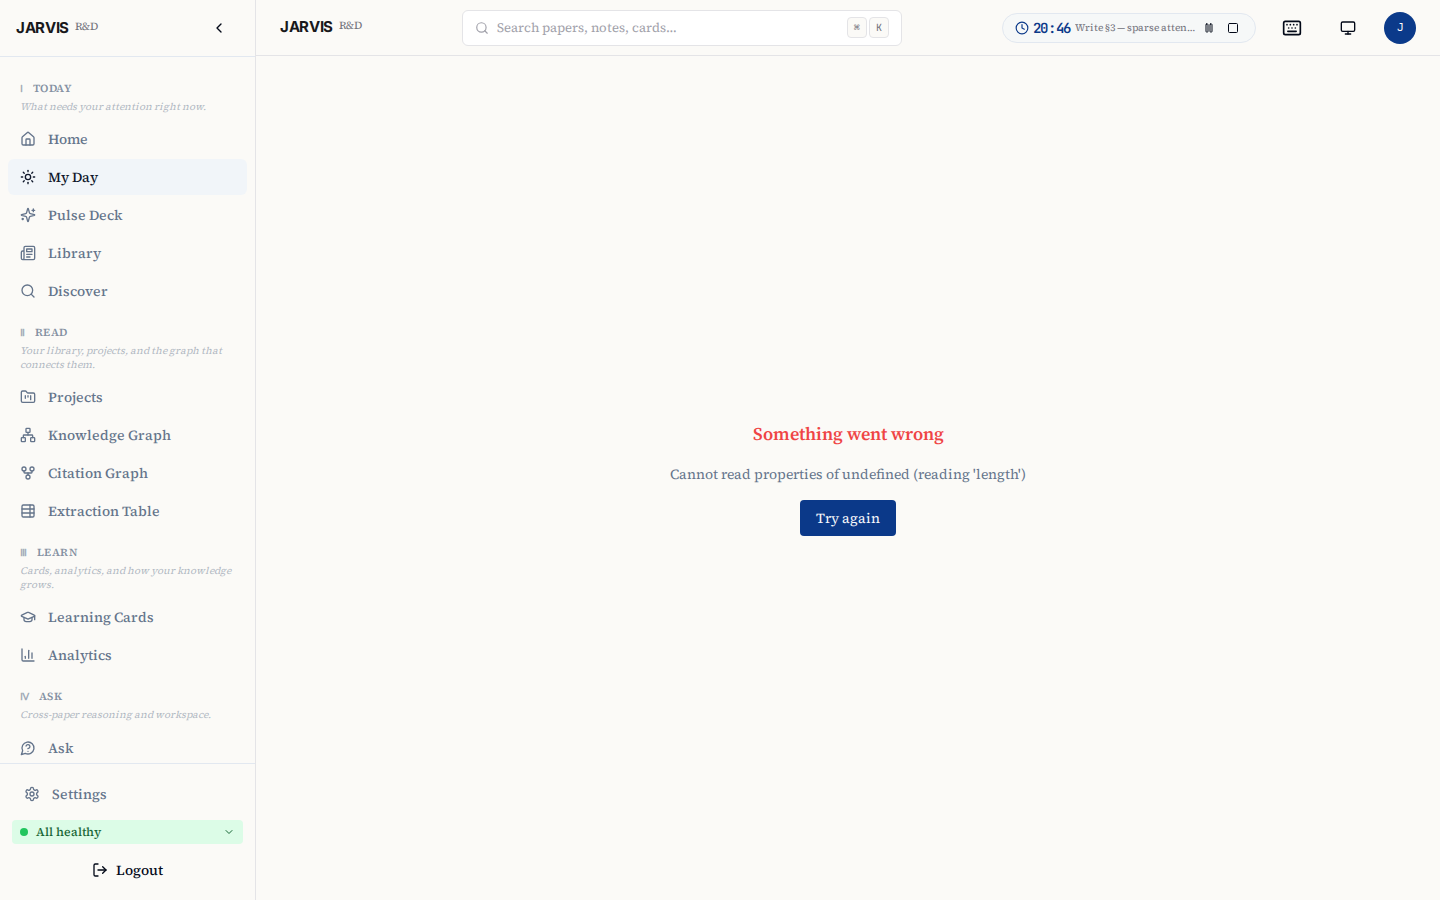
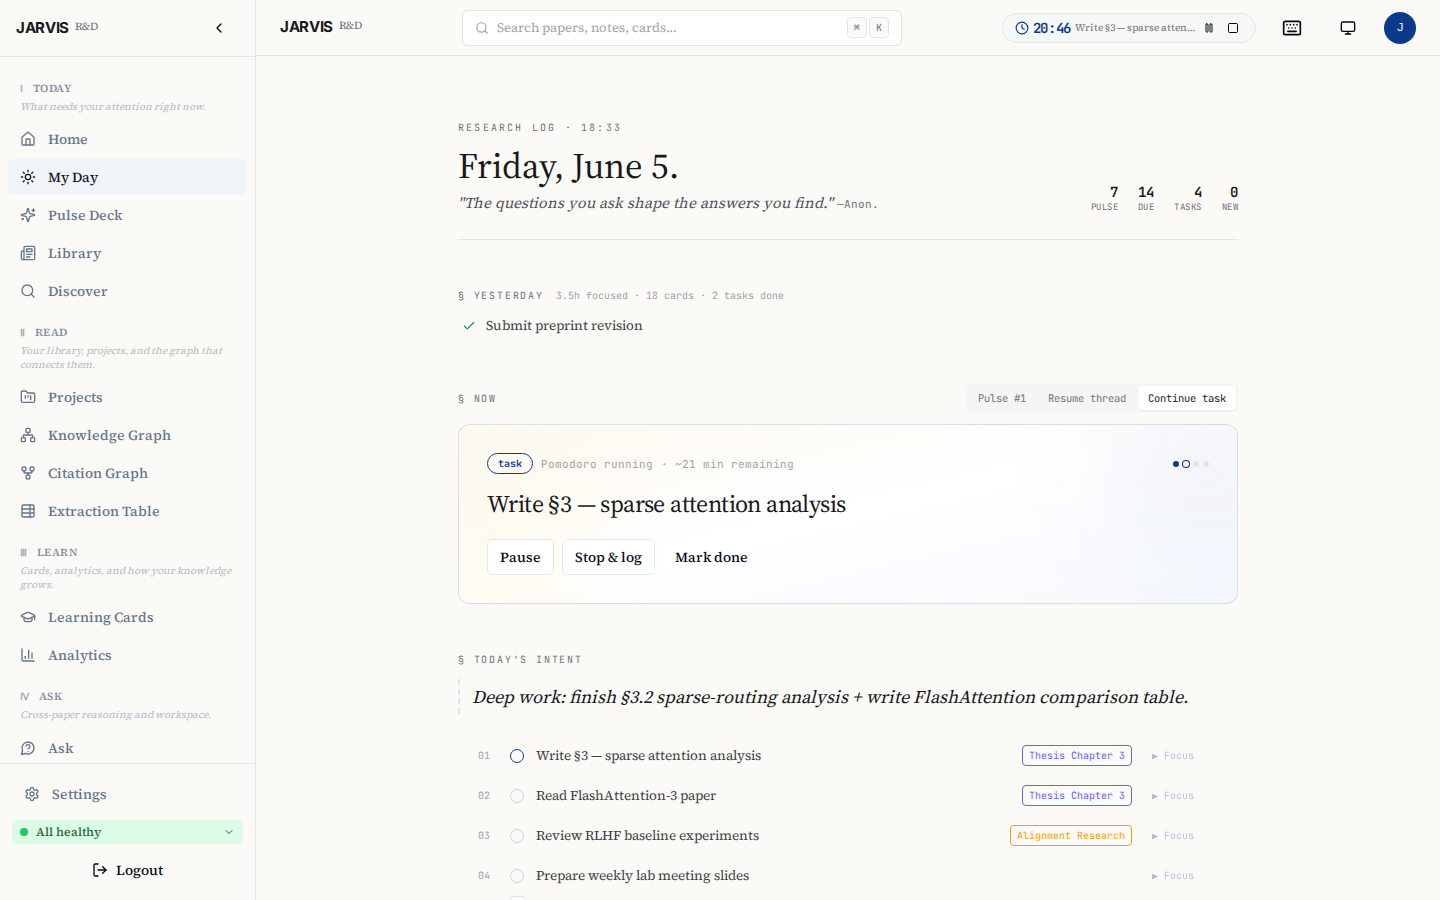
docs(readme): fix broken screenshots and update project contact email (#63)

diff --git a/frontend/e2e/readme-screenshots.spec.ts b/frontend/e2e/readme-screenshots.spec.ts
@@ -1,13 +1,14 @@
 /**
  * README screenshot generator — fully mocked, no live backend required.
  *
- * Produces 6 hero screenshots for docs/screenshots/:
+ * Produces 7 hero screenshots for docs/screenshots/:
  *   01-home.png        → HomePage         /
  *   02-my-day.png      → MyDayPage        /my-day
  *   03-pulse.png       → PulseDeckPage    /pulse
  *   04-library.png     → ResearchFeedPage /feed?surface=library (Library view)
  *   05-discover.png    → ResearchFeedPage /feed (Search/Discover tab)
  *   06-knowledge-graph.png → KnowledgeGraphPage /knowledge
+ *   07-ask.png         → AskPage          /ask (cross-paper RAG Q&A)
  *
  * Viewport: 1440×900 (above-the-fold, not fullPage).
  * All API calls intercepted via page.route().
@@ -291,6 +292,57 @@ const MY_DAY_RESPONSE = {
   ],
 };
 
+// WeeklyDigestResponse — per-topic theme clusters with verified/unverified badges.
+// Shape grounded against WeeklyDigestResponse in src/types/index.ts:1222.
+const WEEKLY_DIGEST = {
+  total_papers: 11,
+  period_start: '2026-05-29',
+  period_end: '2026-06-04',
+  topics: [
+    {
+      name: 'Efficient Inference',
+      paper_count: 5,
+      summary:
+        'Sparse routing and asynchronous attention dominate this week — the shared thread is reducing memory bandwidth without quality loss.',
+      themes: [
+        { theme: 'Top-k sparse MoE gating yields 2.4× long-context throughput at <1% quality loss.', supporting_papers: [101], notes: null, verified: true, verification_reason: null },
+        { theme: 'FlashAttention-3 exploits H100 asynchrony for a 1.5–2.0× speedup over FA2.', supporting_papers: [104], notes: null, verified: true, verification_reason: null },
+        { theme: 'Inference-aware cost modelling revisits Chinchilla-optimal scaling.', supporting_papers: [106], notes: null, verified: false, verification_reason: 'Claim paraphrases two papers; exact supporting quote not located in corpus.' },
+      ],
+      top_papers: [
+        { paper_id: 101, title: 'Sparse Mixture-of-Experts for Efficient Long-Context Inference', url: 'https://arxiv.org/abs/2501.00101', confidence: 'HIGH', relevance_score: 0.94 },
+        { paper_id: 104, title: 'FlashAttention-3: Fast and Accurate Attention with Asynchrony', url: 'https://arxiv.org/abs/2407.08608', confidence: 'HIGH', relevance_score: 0.85 },
+      ],
+    },
+    {
+      name: 'RLHF & Alignment',
+      paper_count: 3,
+      summary:
+        'Reward-model overoptimization remains the open question — empirical scaling curves are now available to bound it.',
+      themes: [
+        { theme: 'Proxy-reward overoptimization follows a predictable scaling law in RLHF.', supporting_papers: [103], notes: null, verified: true, verification_reason: null },
+        { theme: 'Reward collapse correlates with out-of-distribution prompts more than raw overfit.', supporting_papers: [103], notes: null, verified: true, verification_reason: null },
+      ],
+      top_papers: [
+        { paper_id: 103, title: 'Scaling Laws for Reward Model Overoptimization in RLHF', url: 'https://arxiv.org/abs/2210.10760', confidence: 'HIGH', relevance_score: 0.88 },
+      ],
+    },
+  ],
+};
+
+// MyDayBundle — single round-trip that primes per-section caches (MyDayPage.tsx).
+// Shape grounded against MyDayBundle in src/types/index.ts:1295.
+const MY_DAY_BUNDLE = {
+  tasks: MY_DAY_RESPONSE.tasks,
+  intent: { intent: 'Deep work: finish §3.2 sparse-routing analysis + write FlashAttention comparison table.', updated_at: '2026-06-04T07:30:00Z' },
+  threads: [
+    { id: 1, title: 'Sparse attention vs dense: when does routing overhead pay off?', anchor: 'Re-read §4 of the MoE paper before benchmarking.', progress: 0.45, last_at: '2026-06-03T09:15:00Z', status: 'open', created_at: '2026-06-02T14:00:00Z' },
+    { id: 2, title: 'RLHF reward collapse — relationship to overfit or OOD?', anchor: null, progress: 0.2, last_at: '2026-06-03T16:00:00Z', status: 'open', created_at: '2026-06-01T10:00:00Z' },
+  ],
+  yesterday: { date: '2026-06-03', focused_hours: 3.5, cards_reviewed: 18, tasks_done: 2, completed: [{ id: 10, title: 'Submit preprint revision', status: 'done' }], deferred: [] },
+  journal: null,
+};
+
 const RETENTION_STATS = {
   total_cards: 284,
   due_now: 14,
@@ -312,18 +364,127 @@ const KNOWLEDGE_GRAPH = {
     { id: 8, name: 'RAG', canonical_name: 'Retrieval-Augmented Generation', entity_type: 'method', description: 'Hybrid retrieval + generation for knowledge-intensive tasks', paper_count: 22, created_at: '2026-01-01T00:00:00Z', metadata: {} },
     { id: 9, name: 'Chain-of-Thought', canonical_name: 'Chain-of-Thought Prompting', entity_type: 'concept', description: 'Prompting technique eliciting step-by-step reasoning', paper_count: 19, created_at: '2026-01-01T00:00:00Z', metadata: {} },
   ],
+  // Hub-and-spoke topology: "Transformer" (id 1) is the sole high-degree hub,
+  // every other entity a degree-1/2 leaf. The "Concentric" layout keys on node
+  // degree, so this seats Transformer alone at the centre and fans the eight
+  // leaves into one evenly-spaced outer ring — a clean, legible README graph
+  // (a flat degree distribution instead makes concentric pile everything in the
+  // middle and the labels collide).
   relationships: [
     { id: 1, source_entity_id: 1, target_entity_id: 2, relationship_type: 'basis_for', paper_id: 201, evidence_quote: null, confidence: 0.95, created_at: '2026-01-01T00:00:00Z' },
     { id: 2, source_entity_id: 1, target_entity_id: 3, relationship_type: 'basis_for', paper_id: 201, evidence_quote: null, confidence: 0.95, created_at: '2026-01-01T00:00:00Z' },
-    { id: 3, source_entity_id: 6, target_entity_id: 1, relationship_type: 'component_of', paper_id: 201, evidence_quote: null, confidence: 0.90, created_at: '2026-01-01T00:00:00Z' },
-    { id: 4, source_entity_id: 5, target_entity_id: 3, relationship_type: 'used_to_train', paper_id: 103, evidence_quote: null, confidence: 0.88, created_at: '2026-01-01T00:00:00Z' },
-    { id: 5, source_entity_id: 7, target_entity_id: 3, relationship_type: 'applied_to', paper_id: 202, evidence_quote: null, confidence: 0.85, created_at: '2026-01-01T00:00:00Z' },
-    { id: 6, source_entity_id: 8, target_entity_id: 6, relationship_type: 'uses', paper_id: 202, evidence_quote: null, confidence: 0.82, created_at: '2026-01-01T00:00:00Z' },
-    { id: 7, source_entity_id: 9, target_entity_id: 3, relationship_type: 'improves', paper_id: 204, evidence_quote: null, confidence: 0.79, created_at: '2026-01-01T00:00:00Z' },
-    { id: 8, source_entity_id: 2, target_entity_id: 4, relationship_type: 'evaluated_on', paper_id: 201, evidence_quote: null, confidence: 0.78, created_at: '2026-01-01T00:00:00Z' },
+    { id: 3, source_entity_id: 1, target_entity_id: 6, relationship_type: 'uses', paper_id: 201, evidence_quote: null, confidence: 0.90, created_at: '2026-01-01T00:00:00Z' },
+    { id: 4, source_entity_id: 1, target_entity_id: 5, relationship_type: 'aligned_by', paper_id: 103, evidence_quote: null, confidence: 0.88, created_at: '2026-01-01T00:00:00Z' },
+    { id: 5, source_entity_id: 1, target_entity_id: 7, relationship_type: 'fine_tuned_by', paper_id: 202, evidence_quote: null, confidence: 0.85, created_at: '2026-01-01T00:00:00Z' },
+    { id: 6, source_entity_id: 1, target_entity_id: 8, relationship_type: 'extended_by', paper_id: 202, evidence_quote: null, confidence: 0.82, created_at: '2026-01-01T00:00:00Z' },
+    { id: 7, source_entity_id: 1, target_entity_id: 9, relationship_type: 'prompted_by', paper_id: 204, evidence_quote: null, confidence: 0.79, created_at: '2026-01-01T00:00:00Z' },
+    { id: 8, source_entity_id: 1, target_entity_id: 4, relationship_type: 'evaluated_on', paper_id: 201, evidence_quote: null, confidence: 0.78, created_at: '2026-01-01T00:00:00Z' },
   ],
   entity_type_counts: { method: 5, concept: 3, dataset: 1 },
 };
+
+// ─────────────────────────────────────────────────────────────────────────────
+// Ask (cross-paper RAG) — completed Q&A fixture
+//
+// The Ask answer is rendered by streaming a complete, well-formed SSE response
+// from POST /api/ask/stream. The shape is grounded against StreamEvent in
+// src/lib/sse.ts:27 (token | sources | confidence | done). The answer carries
+// inline [n] citations, a HIGH-confidence "Verified" badge, per-sentence
+// verification (one sentence intentionally unverified → yellow <mark>), and a
+// sources list with page numbers — the anti-hallucination design on display.
+// ─────────────────────────────────────────────────────────────────────────────
+
+const ASK_QUESTION =
+  'How do sparse mixture-of-experts methods compare to dense transformers for long-context inference, and what are the throughput/quality trade-offs?';
+
+// The answer text. Inline [n] markers reference the sources list below.
+const ASK_ANSWER = [
+  'For long-context inference, sparse mixture-of-experts (MoE) models route each token to only the top-k experts, so the activated parameter count — and therefore the memory bandwidth per token — stays far below a dense transformer of equivalent total size [1].',
+  ' Empirically this yields a 2.4× throughput improvement at 128k-token contexts with under 1% quality degradation on standard LLM benchmarks [1].',
+  ' Dense transformers, by contrast, activate every parameter for every token, so their long-context cost is dominated by the quadratic attention term and the full feed-forward pass [3].',
+  ' Kernel-level work narrows part of that gap: FlashAttention-3 exploits H100 asynchrony to deliver a 1.5–2.0× attention speedup over FlashAttention-2, which benefits dense and sparse models alike [2].',
+  ' The principal trade-off is that MoE routing adds load-balancing overhead and can underperform dense models on tasks where expert specialization fragments rare-token coverage.',
+  ' Inference-aware cost modelling suggests the sparse advantage widens as deployment scale grows, since the per-token compute savings compound across long sequences [3].',
+].join('');
+
+// Per-sentence verification. Five of six sentences verified against retrieved
+// source chunks; the routing-overhead caveat is left unverified to surface the
+// per-sentence highlight (yellow <mark>) without tripping the amber low-confidence
+// banner (which only shows when confidence !== 'HIGH').
+const ASK_PER_SENTENCE = [
+  { text: 'For long-context inference, sparse mixture-of-experts (MoE) models route each token to only the top-k experts, so the activated parameter count — and therefore the memory bandwidth per token — stays far below a dense transformer of equivalent total size [1].', verified: true },
+  { text: 'Empirically this yields a 2.4× throughput improvement at 128k-token contexts with under 1% quality degradation on standard LLM benchmarks [1].', verified: true },
+  { text: 'Dense transformers, by contrast, activate every parameter for every token, so their long-context cost is dominated by the quadratic attention term and the full feed-forward pass [3].', verified: true },
+  { text: 'Kernel-level work narrows part of that gap: FlashAttention-3 exploits H100 asynchrony to deliver a 1.5–2.0× attention speedup over FlashAttention-2, which benefits dense and sparse models alike [2].', verified: true },
+  { text: 'The principal trade-off is that MoE routing adds load-balancing overhead and can underperform dense models on tasks where expert specialization fragments rare-token coverage.', verified: false },
+  { text: 'Inference-aware cost modelling suggests the sparse advantage widens as deployment scale grows, since the per-token compute savings compound across long sequences [3].', verified: true },
+];
+
+const ASK_SOURCES = [
+  {
+    chunk_id: 9101,
+    paper_id: 101,
+    paper_title: '[1] Sparse Mixture-of-Experts for Efficient Long-Context Inference (Liu et al., 2026)',
+    text: 'Routing only the top-k experts per token reduces activated memory bandwidth and yields a 2.4× throughput improvement at 128k context length with <1% quality degradation across standard LLM benchmarks.',
+    page_number: 4,
+    score: 0.912,
+  },
+  {
+    chunk_id: 9104,
+    paper_id: 104,
+    paper_title: '[2] FlashAttention-3: Fast and Accurate Attention with Asynchrony (Shah et al., 2024)',
+    text: 'By overlapping computation and memory movement on H100 GPUs, FlashAttention-3 attains a 1.5–2.0× speedup over FlashAttention-2 while preserving numerical accuracy.',
+    page_number: 7,
+    score: 0.864,
+  },
+  {
+    chunk_id: 9106,
+    paper_id: 106,
+    paper_title: '[3] Beyond Chinchilla-Optimal: Accounting for Inference in LLM Cost Modelling (Sardana & Frankle, 2024)',
+    text: 'When inference cost is folded into the scaling objective, compute-per-token savings dominate at deployment scale, favouring architectures that activate fewer parameters per token.',
+    page_number: 3,
+    score: 0.831,
+  },
+];
+
+/**
+ * Build a complete SSE body: token frames (so the answer renders progressively),
+ * then a single sources frame, a confidence frame, and a terminal done frame.
+ * Frames follow the `data: {json}\n` shape parsed by readSSEFrames (sse.ts:85).
+ */
+function buildAskStreamBody(): string {
+  const frames: string[] = [];
+  // Stream the answer as fixed-width character chunks so it arrives
+  // progressively yet reassembles to the EXACT text (sentence-boundary
+  // splitting would fragment the decimal points in "2.4×"/"1.5–2.0×" and drop
+  // characters, corrupting both the answer and the per-sentence highlight match).
+  const CHUNK = 64;
+  for (let i = 0; i < ASK_ANSWER.length; i += CHUNK) {
+    frames.push(`data: ${JSON.stringify({ type: 'token', content: ASK_ANSWER.slice(i, i + CHUNK) })}\n`);
+  }
+  frames.push(`data: ${JSON.stringify({ type: 'sources', sources: ASK_SOURCES })}\n`);
+  frames.push(
+    `data: ${JSON.stringify({ type: 'confidence', confidence: 'HIGH', verified_fraction: 5 / 6, per_sentence: ASK_PER_SENTENCE })}\n`,
+  );
+  frames.push(`data: ${JSON.stringify({ type: 'done', model_used: null })}\n`);
+  frames.push('data: [DONE]\n');
+  return frames.join('');
+}
+
+async function installAskRoutes(page: Page): Promise<void> {
+  await installCommonRoutes(page);
+
+  // POST /api/ask/stream → complete mocked SSE response.
+  await page.route('**/api/ask/stream**', async (route: Route) => {
+    await route.fulfill({ status: 200, contentType: 'text/event-stream', body: buildAskStreamBody() });
+  });
+
+  // OnboardingTour eligibility check — non-empty so the tour stays hidden.
+  await page.route('**/api/papers/feed**', async (route: Route) => {
+    if (route.request().url().includes('/counts')) { await route.continue(); return; }
+    await route.fulfill({ status: 200, contentType: 'application/json', body: JSON.stringify({ papers: INBOX_PAPERS.slice(0, 1), total: 1 }) });
+  });
+}
 
 // ─────────────────────────────────────────────────────────────────────────────
 // Route-install helpers
@@ -335,8 +496,16 @@ async function installCommonRoutes(page: Page): Promise<void> {
     await route.fulfill({ status: 200, contentType: 'application/json', body: JSON.stringify(SETUP_STATUS) });
   });
 
-  // Jobs SSE + listing — return empty so no job banners appear
-  await page.route('**/api/jobs**', async (route: Route) => {
+  // Jobs SSE + listing — return empty so no job banners appear.
+  //
+  // NOTE: this is a RegExp, not a `**/api/jobs**` glob, on purpose. Under
+  // `vite dev` the source module `/src/lib/api/jobs.ts` is served verbatim, and
+  // a `**/api/jobs**` glob ALSO matches that module path — intercepting the JS
+  // module and returning JSON, which blanks the whole app ("Failed to load
+  // module script: …MIME type application/json"). Anchoring to a real API path
+  // (`/api/jobs` followed by end, `?`, or `/`) avoids the dev-server collision
+  // while still matching `/api/jobs`, `/api/jobs?…`, and `/api/jobs/stream`.
+  await page.route(/\/api\/jobs(\?|\/|$)/, async (route: Route) => {
     const url = route.request().url();
     if (url.includes('/stream') || url.includes('stream')) {
       // SSE streams: return a minimal well-formed event-stream with no events
@@ -443,10 +612,7 @@ async function installMyDayRoutes(page: Page): Promise<void> {
   });
 
   await page.route('**/api/my-day/threads**', async (route: Route) => {
-    await route.fulfill({ status: 200, contentType: 'application/json', body: JSON.stringify([
-      { id: 1, title: 'Sparse attention vs dense: when does routing overhead pay off?', status: 'open', created_at: '2026-06-02T14:00:00Z', updated_at: '2026-06-03T09:15:00Z', paper_count: 4 },
-      { id: 2, title: 'RLHF reward collapse — relationship to overfit or OOD?', status: 'open', created_at: '2026-06-01T10:00:00Z', updated_at: '2026-06-03T16:00:00Z', paper_count: 3 },
-    ]) });
+    await route.fulfill({ status: 200, contentType: 'application/json', body: JSON.stringify(MY_DAY_BUNDLE.threads) });
   });
 
   await page.route('**/api/my-day/journal**', async (route: Route) => {
@@ -457,8 +623,19 @@ async function installMyDayRoutes(page: Page): Promise<void> {
     await route.fulfill({ status: 200, contentType: 'application/json', body: JSON.stringify(MY_DAY_RESPONSE.tasks) });
   });
 
+  // GET /api/digest/weekly → WeeklyDigestResponse. The response MUST carry a
+  // `topics` array: WeeklyDigestSection reads `data.topics.length`, so a
+  // shapeless `{summary, generated_at}` body throws "Cannot read properties of
+  // undefined (reading 'length')" and trips the ErrorBoundary.
   await page.route('**/api/digest/weekly**', async (route: Route) => {
-    await route.fulfill({ status: 200, contentType: 'application/json', body: JSON.stringify({ summary: null, generated_at: null }) });
+    await route.fulfill({ status: 200, contentType: 'application/json', body: JSON.stringify(WEEKLY_DIGEST) });
+  });
+
+  // GET /api/executive/my-day-bundle → MyDayBundle. MyDayPage primes per-section
+  // caches from this single round-trip; without it apiFetch receives the SPA
+  // index.html and throws a JSON-parse console error.
+  await page.route('**/api/executive/my-day-bundle**', async (route: Route) => {
+    await route.fulfill({ status: 200, contentType: 'application/json', body: JSON.stringify(MY_DAY_BUNDLE) });
   });
 }
 
@@ -817,8 +994,30 @@ test('06-knowledge-graph: KnowledgeGraphPage at /knowledge', async ({ page }) =>
   await page.waitForLoadState('networkidle');
   // Wait for Knowledge Graph heading
   await page.waitForSelector('h1, h2, h3', { timeout: 10000 });
-  // Give Cytoscape canvas time to render
-  await page.waitForTimeout(2000);
+  await page.waitForSelector('[data-testid="cytoscape-container"]', { timeout: 10000 });
+
+  // The default force-directed (cose) layout clumps a small graph and lets
+  // labels collide. Switch to the deterministic "Circle" layout — it spaces all
+  // entities evenly around one ring, so the below-node labels never overlap and
+  // the hub-and-spoke relationships read clearly across the middle. Driving it
+  // through the GraphControls dropdown also remounts CytoscapeGraph with a fresh fit.
+  const layoutTrigger = page.getByRole('combobox').filter({ hasText: /Force-directed|Concentric|Circle|Breadth/ }).first();
+  if (await layoutTrigger.isVisible({ timeout: 3000 }).catch(() => false)) {
+    await layoutTrigger.click();
+    await page.getByRole('option', { name: 'Circle' }).click();
+  }
+
+  // Let the circle layout settle.
+  await page.waitForTimeout(4000);
+
+  // Scroll the graph to the top of the viewport so the full 500px canvas is
+  // above the fold (the page chrome — title + filters + query bar — otherwise
+  // pushes the graph's lower third below the 900px clip).
+  await page.evaluate(() => {
+    // Omit `behavior` → default 'auto' (instant) scroll; no animation to wait on.
+    document.querySelector('[data-testid="cytoscape-container"]')?.scrollIntoView({ block: 'start' });
+  });
+  await page.waitForTimeout(600);
 
   await page.addStyleTag({ content: '::-webkit-scrollbar { display: none !important; }' });
 
@@ -826,6 +1025,55 @@ test('06-knowledge-graph: KnowledgeGraphPage at /knowledge', async ({ page }) =>
 
   await page.screenshot({
     path: path.join(SCREENSHOTS_DIR, '06-knowledge-graph.png'),
+    fullPage: false,
+    clip: { x: 0, y: 0, width: VIEWPORT.width, height: VIEWPORT.height },
+  });
+});
+
+test('07-ask: AskPage cross-paper RAG at /ask', async ({ page }) => {
+  await seedAuthedSession(page);
+  await installAskRoutes(page);
+
+  await page.addInitScript(() => {
+    const uiState = { state: { checklistDismissed: true, sidebarOpen: true }, version: 0 };
+    localStorage.setItem('jarvis-ui', JSON.stringify(uiState));
+    localStorage.setItem('jarvis-onboarding-dismissed', 'true');
+  });
+
+  const consoleErrors07: string[] = [];
+  page.on('console', (msg) => { if (msg.type() === 'error') consoleErrors07.push(msg.text()); });
+  page.on('response', (resp) => { if (!resp.ok() && resp.url().includes('/api/')) console.warn(`[07-ask] non-2xx: ${resp.status()} ${resp.url()}`); });
+
+  await page.goto('/ask');
+  await page.waitForLoadState('networkidle');
+  // Ask page header is the ready-signal
+  await page.waitForSelector('[data-testid="ask-page"]', { timeout: 10000 });
+
+  // Ask a research question — this fires POST /api/ask/stream (mocked SSE) and
+  // the completed answer (inline [n] citations + Verified badge + per-sentence
+  // verification) streams into the chat workspace.
+  const input = page.getByPlaceholder('Ask a question...');
+  await input.fill(ASK_QUESTION);
+  await page.getByRole('button', { name: 'Send message' }).click();
+
+  // Wait for the streamed answer to settle (last sentence + Verified badge).
+  await page.getByText('Inference-aware cost modelling').waitFor({ timeout: 10000 });
+  await page.getByText('Verified', { exact: true }).first().waitFor({ timeout: 10000 });
+
+  // Expand the sources accordion so page-numbered citations are visible.
+  const sourcesToggle = page.getByRole('button', { name: /\d+ sources?/ });
+  if (await sourcesToggle.isVisible({ timeout: 3000 }).catch(() => false)) {
+    await sourcesToggle.click();
+    await page.waitForTimeout(300);
+  }
+
+  await page.addStyleTag({ content: '::-webkit-scrollbar { display: none !important; }' });
+  await page.waitForTimeout(400);
+
+  if (consoleErrors07.length) console.warn('[07-ask] console errors:', consoleErrors07);
+
+  await page.screenshot({
+    path: path.join(SCREENSHOTS_DIR, '07-ask.png'),
     fullPage: false,
     clip: { x: 0, y: 0, width: VIEWPORT.width, height: VIEWPORT.height },
   });

diff --git a/README.md b/README.md
@@ -19,15 +19,15 @@
 - 📂 **Projects** — lightweight task + milestone tracking tied to source papers, with optional Zotero push.
 
 <details>
-<summary><b>More screenshots</b> — Dashboard · Pulse · Library · Discover · Knowledge Graph</summary>
+<summary><b>More screenshots</b> — Dashboard · Pulse · Library · Discover · Knowledge Graph · Ask</summary>
 
 | Dashboard | Pulse Deck |
 |---|---|
-| ![Dashboard](docs/screenshots/01-home.png) | ![Pulse deck](docs/screenshots/03-pulse.png) |
+| ![Dashboard — library, due cards, projects, and batch processing at a glance](docs/screenshots/01-home.png) | ![Pulse deck — daily LLM-ranked paper recommendations with verified relevance reasoning](docs/screenshots/03-pulse.png) |
 | **Library (inbox)** | **Discover (multi-source)** |
-| ![Library inbox](docs/screenshots/04-library.png) | ![Discover](docs/screenshots/05-discover.png) |
-| **Knowledge Graph** | |
-| ![Knowledge graph](docs/screenshots/06-knowledge-graph.png) | |
+| ![Library — saved and owned papers with status, priority, and summary state](docs/screenshots/04-library.png) | ![Discover — inbox of new papers from arXiv, OpenAlex, Semantic Scholar, and PubMed with match reasons](docs/screenshots/05-discover.png) |
+| **Knowledge Graph** | **Ask (cross-paper Q&A)** |
+| ![Knowledge graph — entities and relationships extracted from your corpus](docs/screenshots/06-knowledge-graph.png) | ![Ask — cross-paper RAG with inline citations, per-sentence verification, and page-numbered sources](docs/screenshots/07-ask.png) |
 
 </details>
 

diff --git a/CODE_OF_CONDUCT.md b/CODE_OF_CONDUCT.md
@@ -36,7 +36,7 @@ This Code of Conduct applies within all community spaces, and also applies when 
 
 ## Enforcement
 
-Instances of abusive, harassing, or otherwise unacceptable behavior may be reported to the community leaders responsible for enforcement at ferhat.fidan@tuhh.de. All complaints will be reviewed and investigated promptly and fairly.
+Instances of abusive, harassing, or otherwise unacceptable behavior may be reported to the community leaders responsible for enforcement at jarvis-rd@limitcycle.dev. All complaints will be reviewed and investigated promptly and fairly.
 
 All community leaders are obligated to respect the privacy and security of the reporter of any incident.
 
